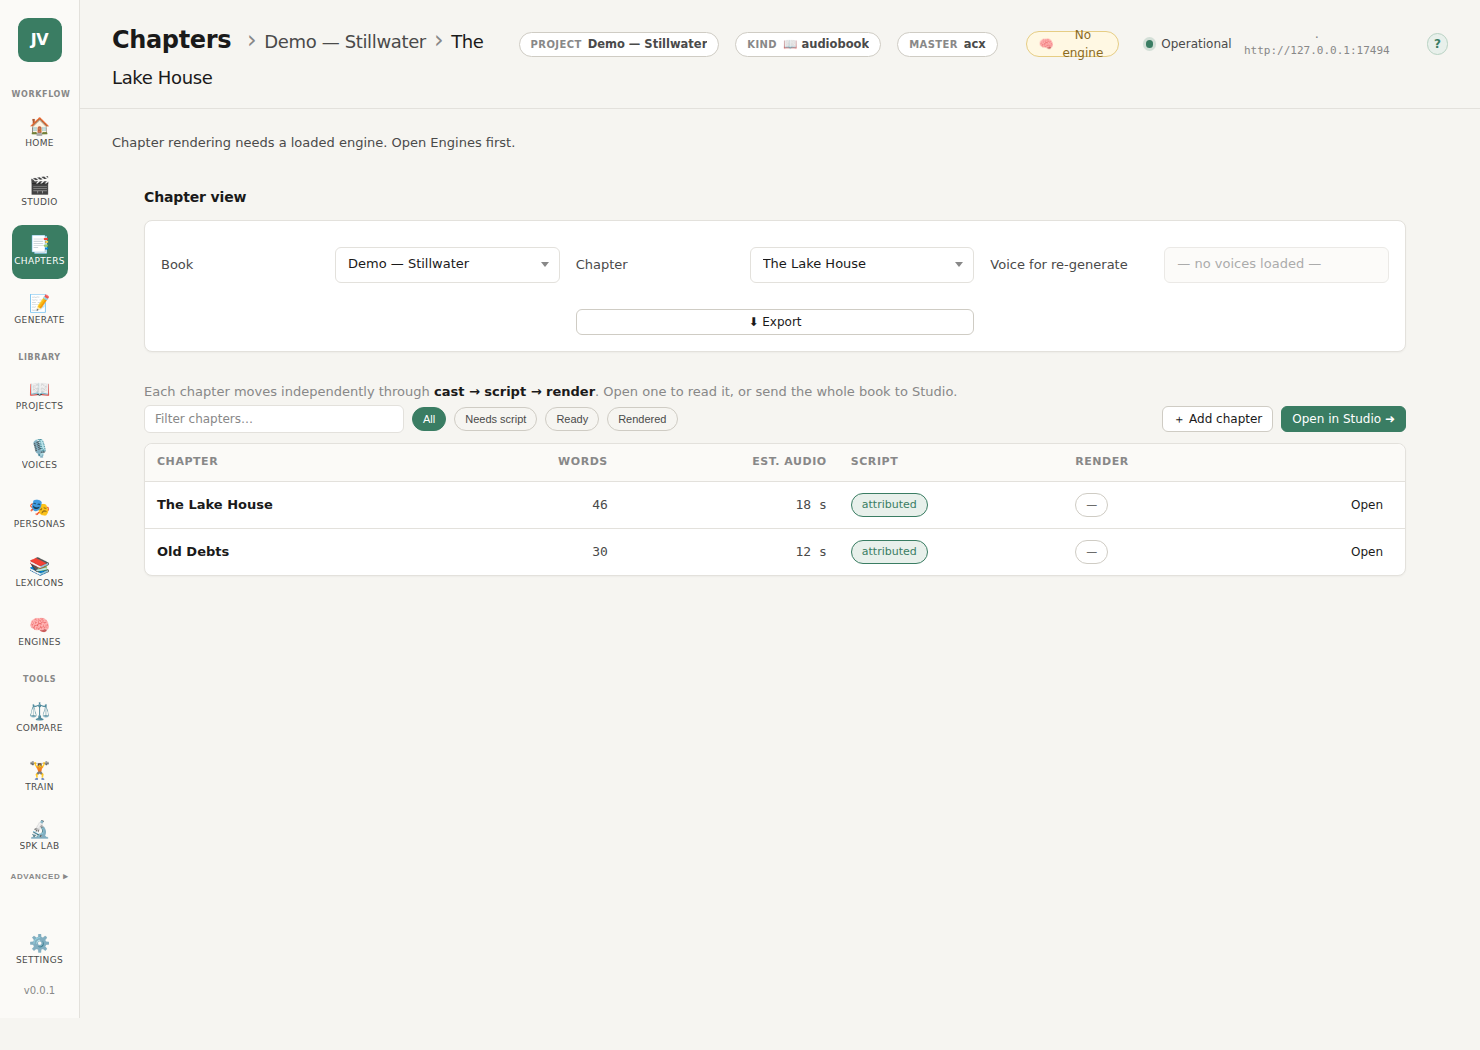
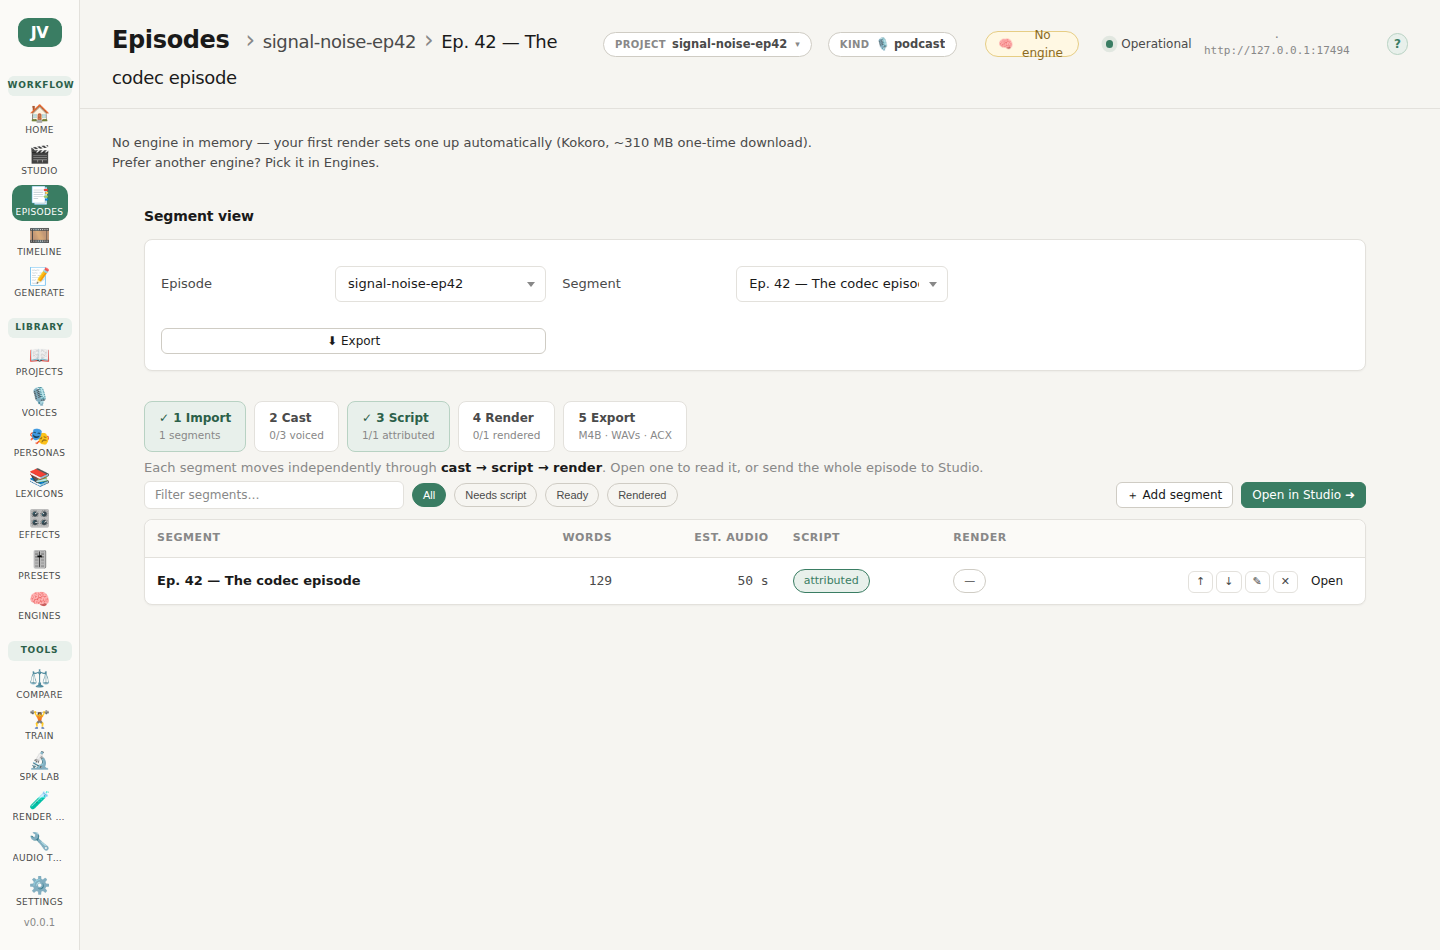
feat(parity): Episodes + Timeline judged — marker flag materialized, ♪ rows, Open Timeline
The last two diffable parity rows, judged against a fabricated podcast
project (Signal & Noise ep.42 via podcast_markdown):

- Real bug found while judging: _materialize_standard DROPPED the
  importer's delivery.marker flag, so podcast music/ad direction lines
  landed as plain unattributed blocks — and since the attribution check
  required EVERY block to have a persona, episodes with markers showed
  'unassigned speakers' forever. Markers now land in block metadata;
  attribution judges speech only.
- Episode detail: marker rows wear a ♪ marker pill + muted-italic text
  (no '+ direction' on them); podcast segments gain 'Open Timeline ➜'
  per the mock's journey (rendered segments land on the Timeline).
- Timeline judged honestly: the mock's grown-up multi-track editor
  (per-speaker tracks, zoom, music ducking, auto-lay) is NOT built —
  recorded as the biggest open parity gap, needs its own plan.
- README rows ⬜ → 🟡; app-side PNGs refreshed.

https://claude.ai/code/session_01RnHLzYNeJn2GgAMKW1BPmR

diff --git a/src/renderer/src/views/ChapterView.vue b/src/renderer/src/views/ChapterView.vue
@@ -333,6 +333,10 @@ async function regenerateBlock(block) {
   }
 }
 
+function goTimeline() {
+  window.location.hash = "#stories";
+}
+
 // ── Inline block text editing (user ask 2026-06-12: edit the chapter
 // in place — open/edit was read-only). PATCH /v1/blocks/{id} carries
 // text; the render cache keys on text, so only the edited line
@@ -565,7 +569,10 @@ async function loadChapterList() {
       const res = await projectsService.listBlocks(sc.id);
       const blocks = res?.blocks || res || [];
       const words = blocks.reduce((n, b) => n + String(b.text || "").split(/\s+/).filter(Boolean).length, 0);
-      const attributed = blocks.length > 0 && blocks.every((b) => !!b.persona_id);
+      // Marker blocks (podcast music/ad direction lines) are
+      // legitimately speaker-less — attribution only judges speech.
+      const speech = blocks.filter((b) => !b.metadata?.marker);
+      const attributed = speech.length > 0 && speech.every((b) => !!b.persona_id);
       return [sc.id, { words, blocks: blocks.length, attributed }];
     } catch { return [sc.id, { words: 0, blocks: 0, attributed: false }]; }
   }));
@@ -928,6 +935,17 @@ async function savePastedText() {
     <!-- ── Back to the chapter list (detail mode) ─────────────────────── -->
     <div v-if="viewMode === 'detail' && selectedProjectId" class="chapter-view__backbar">
       <JvButton variant="ghost" size="sm" :label="`← All ${copy.chapter.plural.toLowerCase()}`" @click="backToList" />
+      <span class="jv-spacer" />
+      <!-- Podcast journey (mock): rendered segments land on the Timeline
+           — music bed + stingers get arranged there. -->
+      <JvButton
+        v-if="selectedProjectRec?.project_type === 'podcast'"
+        variant="secondary"
+        size="sm"
+        label="Open Timeline ➜"
+        title="Arrange rendered segments with music beds and stingers on the multi-track Timeline"
+        @click="goTimeline"
+      />
     </div>
 
     <!-- ── No blocks yet ──────────────────────────────────────────────── -->
@@ -957,7 +975,13 @@ async function savePastedText() {
         <div class="chapter-view__block-header">
           <span class="chapter-view__block-num">{{ block.position + 1 }}</span>
           <span v-if="block.persona_id" class="jv-pill jv-pill--green">{{ personaName(block.persona_id) }}</span>
+          <span
+            v-else-if="block.metadata?.marker"
+            class="jv-pill jv-pill--ghost"
+            title="Music / ad direction line from the import — no speaker, renders as silence or gets replaced on the Timeline"
+          >♪ marker</span>
           <button
+            v-if="!block.metadata?.marker"
             type="button"
             class="jv-pill chapter__direction"
             :class="block.direction ? 'jv-pill--warn' : 'jv-pill--ghost'"
@@ -980,7 +1004,7 @@ async function savePastedText() {
         </div>
 
         <!-- Block text — read view, or in-place editor. -->
-        <p v-if="editingBlockId !== block.id" class="chapter-view__block-text"><template v-for="(part, pi) in tagParts(block.text)" :key="pi"><span v-if="part.tag" class="chapter__tag">{{ part.text }}</span><template v-else>{{ part.text }}</template></template></p>
+        <p v-if="editingBlockId !== block.id" class="chapter-view__block-text" :class="{ 'chapter-view__block-text--marker': block.metadata?.marker }"><template v-for="(part, pi) in tagParts(block.text)" :key="pi"><span v-if="part.tag" class="chapter__tag">{{ part.text }}</span><template v-else>{{ part.text }}</template></template></p>
         <div v-else class="chapter-view__block-edit">
           <textarea v-model="editingText" class="jv-input jv-input--full" rows="4" @keydown.escape="editingBlockId = null" />
           <div class="chapter-view__block-edit-actions">
@@ -1290,6 +1314,12 @@ async function savePastedText() {
   text-transform: uppercase;
   letter-spacing: 0.08em;
   min-width: 20px;
+}
+
+.chapter-view__block-text--marker {
+  color: var(--ink-3);
+  font-style: italic;
+  background: transparent;
 }
 
 .chapter-view__block-edit { display: flex; flex-direction: column; gap: 8px; }

diff --git a/server/justvoice/api/projects_api.py b/server/justvoice/api/projects_api.py
@@ -619,9 +619,22 @@ def _materialize_standard(
             )
             # delivery → direction: best-effort surface a short tag for the UI
             direction = None
+            is_marker = False
             if line.delivery:
                 if isinstance(line.delivery, dict):
                     direction = line.delivery.get("emotion") or line.delivery.get("style")
+                    is_marker = bool(line.delivery.get("marker"))
+            # source_ref = the import's stable line id (game CSV dialogue
+            # ids, epub paragraph refs) — re-imports + voiceline export key
+            # on it. marker = music/ad direction lines (podcast): they're
+            # legitimately speaker-less, so attribution checks skip them
+            # (was dropped here → episodes showed "unassigned speakers"
+            # forever).
+            meta: dict = {}
+            if line.source_ref:
+                meta["source_ref"] = line.source_ref
+            if is_marker:
+                meta["marker"] = True
             db.add(
                 Block(
                     scene_id=s.id,
@@ -629,12 +642,7 @@ def _materialize_standard(
                     text=line.text,
                     persona_id=persona_id,
                     direction=direction,
-                    # source_ref = the import's stable line id (game CSV
-                    # dialogue ids, epub paragraph refs). Re-imports and
-                    # the voiceline export key on it.
-                    metadata_json=json.dumps({"source_ref": line.source_ref})
-                    if line.source_ref
-                    else None,
+                    metadata_json=json.dumps(meta) if meta else None,
                 )
             )
             total_blocks += 1

diff --git a/docs/gui-parity/README.md b/docs/gui-parity/README.md
@@ -32,8 +32,8 @@ element-by-element — next pass.
 | Fix-it → Lexicons | lexicons-* | ✅ | flag on block → prefilled grapheme verified live |
 | Captures | captures-* | 🟡 | judged 2026-06-12: All/Pinned/Today chips + 📌 pin (new `pinned` column + PATCH) + ↺ speak-again (Generate prefill) shipped to match mock. Remaining gaps: promote-recording→clone-sample flow (needs the clone pipeline on a capture), mock's flat table vs app's master/detail (kept — detail pane holds transcript/refine tools) |
 | Webhooks | webhooks-* | 🟡 | judged 2026-06-12: MCP-server card added above the table (mock pairs MCP+webhooks as one Automation surface) with real exposed tools + Settings link; lede mentions the CI use case. Remaining gap: mock's per-event ✓ 200 status pill vs app's Last-delivery column (column kept — same info) |
-| Episodes (podcast home base) | episodes-* | ⬜ | ChapterView w/ podcast vocabulary; segment-specific affordances (inline tag pills, markers) not diffed |
-| Timeline (podcast) | timeline-* | ⬜ | StoriesView; mock's grown-up timeline (music bed, stinger drag) not diffed |
+| Episodes (podcast home base) | episodes-* | 🟡 | judged 2026-06-12 (fabricated Signal & Noise ep.42 via podcast_markdown): vocabulary/speaker chips/[tag] highlight/directions/edit/fix-pronunciation all match. Fixed during judging: materializer DROPPED the importer's marker flag (episodes showed "unassigned speakers" forever — attribution now skips ♪ marker rows, which render muted-italic); podcast segments gain "Open Timeline ➜". Remaining gap: mock's −16 LUFS master chip lives on Studio, not the episode toolbar |
+| Timeline (podcast) | timeline-* | 🟡 | judged 2026-06-12: app is the Stories master/detail with clip arrangement; mock's grown-up timeline (per-speaker tracks, zoom chips, music bed ducking, stinger drag, auto-lay pause profile) is a full feature slice, NOT built — biggest open parity gap, needs its own plan |
 | First-run clone/audition steps | — | ⬜ | recording UI is desktop/mic-dependent; screens not diffed |
 | Dictation floating bar / OS flows | — | ⬜ | Tauri/desktop-dependent (user machine) |
 | Proof & QC screens | — | ⬜ | whisper round-trip is model-dependent; flag-flow screens not diffed |
